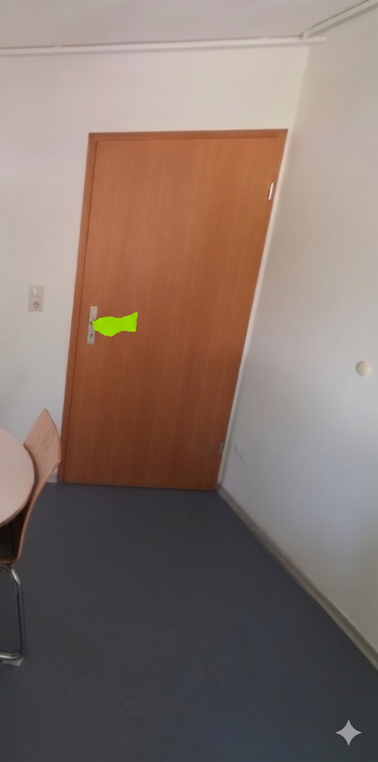
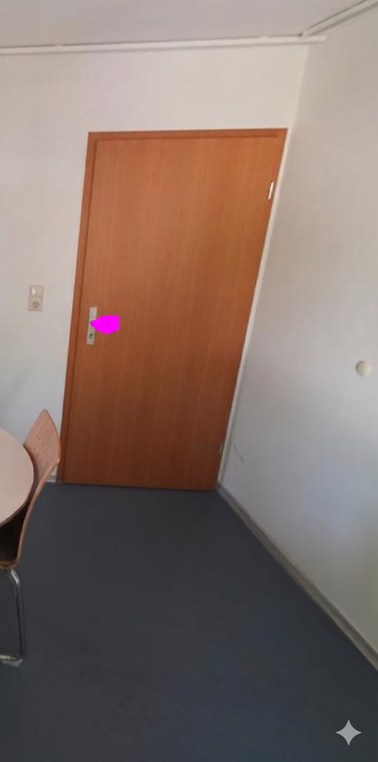
rmed contact mask erosion and added target mask erosion

diff --git a/04_Estimate_Contact/02_estimate_contact.py b/04_Estimate_Contact/02_estimate_contact.py
@@ -33,9 +33,9 @@ def parse_args(argv: list[str] | None = None) -> argparse.Namespace:
     parser.add_argument("--model", default="gemini-2.5-flash-image")
     parser.add_argument("--overwrite-overlay", action="store_true")
     parser.add_argument("--color-max-distance", type=float, default=175.0)
-    parser.add_argument("--min-component-area", type=int, default=50)
-    parser.add_argument("--keep-components", type=int, default=1)
-    parser.add_argument("--erode-pixels", type=int, default=1)
+    parser.add_argument("--min-component-area", type=int, default=10)
+    parser.add_argument("--keep-components", type=int, default=3)
+    parser.add_argument("--target-mask-erode-pixels", type=int, default=2)
     parser.set_defaults(script_dir=script_dir, project_dir=project_dir)
     return parser.parse_args(argv)
 
@@ -127,7 +127,7 @@ def main(argv: list[str] | None = None) -> Path:
         color_max_distance=args.color_max_distance,
         min_component_area=args.min_component_area,
         keep_components=args.keep_components,
-        erode_pixels=args.erode_pixels,
+        target_mask_erode_pixels=args.target_mask_erode_pixels,
     )
 
     print(f"Read contact overlay: {contact_overlay_path}")

diff --git a/04_Estimate_Contact/common.py b/04_Estimate_Contact/common.py
@@ -532,9 +532,9 @@ def save_contact_masks_from_overlay(
     contact_masks_dir: Path,
     human_parts: list[str],
     color_max_distance: float = 90.0,
-    min_component_area: int = 50,
-    keep_components: int = 1,
-    erode_pixels: int = 1,
+    min_component_area: int = 10,
+    keep_components: int = 3,
+    target_mask_erode_pixels: int = 2,
 ) -> list[Path]:
     overlay_rgb, canvas_hw = normalize_overlay_to_canvas(
         overlay_path=overlay_path,
@@ -542,6 +542,7 @@ def save_contact_masks_from_overlay(
         resized_overlay_path=resized_overlay_path,
     )
     target_mask = load_binary_mask(target_mask_crop_path, expected_hw=canvas_hw)
+    target_mask = erode_binary_mask(target_mask, target_mask_erode_pixels)
 
     target_colors = [
         hex_to_rgb(color_for_part(part)[0])
@@ -566,7 +567,6 @@ def save_contact_masks_from_overlay(
             min_area=min_component_area,
             keep_components=keep_components,
         )
-        mask = erode_binary_mask(mask, erode_pixels=erode_pixels)
         mask_path = contact_masks_dir / f"{slugify(part)}.png"
         save_binary_mask(mask_path, mask)
         written_paths.append(mask_path)

diff --git a/04_Estimate_Contact/output/interaction_05/prompt/prompt.md b/04_Estimate_Contact/output/interaction_05/prompt/prompt.md
@@ -16,4 +16,4 @@ Preservation: Preserve the Canvas Image exactly except for the colored contact m
 Constraints: Do not add a human or any scene content. Do not add text labels, arrows, legends, boxes, keypoints, outlines, or other annotations. Show only the colored body-part masks for the specified contacting parts.
 
 Color Mapping for Segmentation Overlays:
-Right Hand: If the target object is touched by the right hand in the Reference Image, copy the visible right hand mask shape from the Reference Image onto the matching location in the Canvas Image using a precise pure lime green overlay.
+Left Hand: If the target object is touched by the left hand in the Reference Image, copy the visible left hand mask shape from the Reference Image onto the matching location in the Canvas Image using a precise pure magenta overlay.
